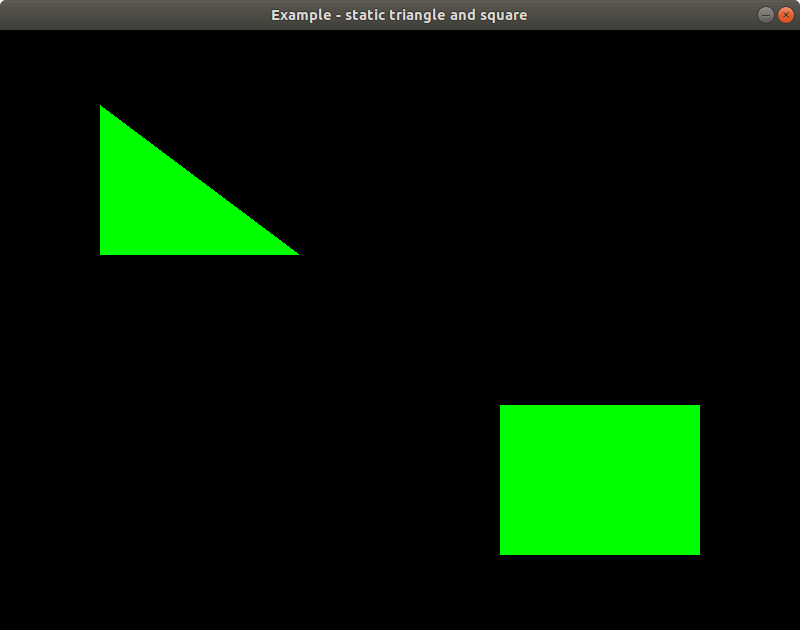
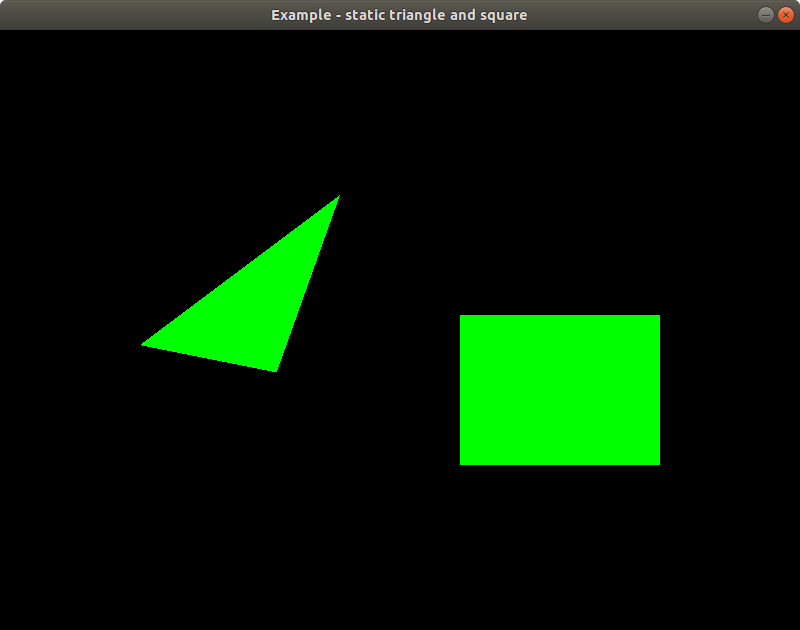
Refactor 02 static multiple object app

Changed region(s): [[0.5625, 0.4825, 0.875, 0.9048], [0.125, 0.1508, 0.4375, 0.6032]]

diff --git a/examples/02-static-multiple-objects/app.go b/examples/02-static-multiple-objects/app.go
@@ -5,6 +5,7 @@ import (
 
 	"github.com/akosgarai/opengl_playground/pkg/application"
 	wrapper "github.com/akosgarai/opengl_playground/pkg/glwrapper"
+	"github.com/akosgarai/opengl_playground/pkg/mesh"
 	"github.com/akosgarai/opengl_playground/pkg/primitives/rectangle"
 	"github.com/akosgarai/opengl_playground/pkg/primitives/triangle"
 	"github.com/akosgarai/opengl_playground/pkg/shader"
@@ -21,32 +22,21 @@ const (
 )
 
 var (
-	triangleCoordinates = [3]mgl32.Vec3{
-		mgl32.Vec3{-0.75, 0.75, 0}, // top
-		mgl32.Vec3{-0.75, 0.25, 0}, // left
-		mgl32.Vec3{-0.25, 0.25, 0}, // right
-	}
-	triangleColors = [3]mgl32.Vec3{
-		mgl32.Vec3{0, 1, 0}, // top
-		mgl32.Vec3{0, 1, 0}, // left
-		mgl32.Vec3{0, 1, 0}, // right
-	}
-	squareCoordinates = [4]mgl32.Vec3{
-		mgl32.Vec3{0.25, -0.25, 0}, // top-left
-		mgl32.Vec3{0.25, -0.75, 0}, // bottom-left
-		mgl32.Vec3{0.75, -0.75, 0}, // bottom-right
-		mgl32.Vec3{0.75, -0.25, 0}, // top-right
-	}
-	squareColors = [4]mgl32.Vec3{
-		mgl32.Vec3{0, 1, 0},
-		mgl32.Vec3{0, 1, 0},
-		mgl32.Vec3{0, 1, 0},
-		mgl32.Vec3{0, 1, 0},
-	}
-
 	app *application.Application
+
+	color = mgl32.Vec3{0, 1, 0}
 )
 
+func GenerateColoredRectangleMesh(col mgl32.Vec3) *mesh.ColorMesh {
+	square := rectangle.NewSquare()
+	v, i := square.ColoredMeshInput(col)
+	return mesh.NewColorMesh(v, i)
+}
+func GenerateColoredTriangleMesh(col mgl32.Vec3) *mesh.ColorMesh {
+	square := triangle.New(30, 60, 90)
+	v, i := square.ColoredMeshInput(col)
+	return mesh.NewColorMesh(v, i)
+}
 func main() {
 	runtime.LockOSThread()
 
@@ -55,12 +45,22 @@ func main() {
 	defer glfw.Terminate()
 	wrapper.InitOpenGL()
 
-	shaderProgram := shader.NewShader("examples/02-static-multiple-objects/vertexshader.vert", "examples/02-static-multiple-objects/fragmentshader.frag")
+	shaderProgram := shader.NewShader("examples/02-static-multiple-objects/shaders/vertexshader.vert", "examples/02-static-multiple-objects/shaders/fragmentshader.frag")
+	app.AddShader(shaderProgram)
 
-	triang := triangle.New(triangleCoordinates, triangleColors, shaderProgram)
-	app.AddItem(triang)
-	square := rectangle.New(squareCoordinates, squareColors, shaderProgram)
-	app.AddItem(square)
+	triang := GenerateColoredTriangleMesh(color)
+	triang.SetRotationAngle(mgl32.DegToRad(90))
+	triang.SetRotationAxis(mgl32.Vec3{1, 1, 0})
+	triang.SetScale(mgl32.Vec3{0.5, 0.5, 0.5})
+	triang.SetPosition(mgl32.Vec3{-0.4, 0.2, 0})
+	app.AddMeshToShader(triang, shaderProgram)
+
+	square := GenerateColoredRectangleMesh(color)
+	square.SetRotationAngle(mgl32.DegToRad(90))
+	square.SetRotationAxis(mgl32.Vec3{1, 0, 0})
+	square.SetScale(mgl32.Vec3{0.5, 0.5, 0.5})
+	square.SetPosition(mgl32.Vec3{0.4, -0.2, 0})
+	app.AddMeshToShader(square, shaderProgram)
 
 	wrapper.Enable(wrapper.DEPTH_TEST)
 	wrapper.DepthFunc(wrapper.LESS)
